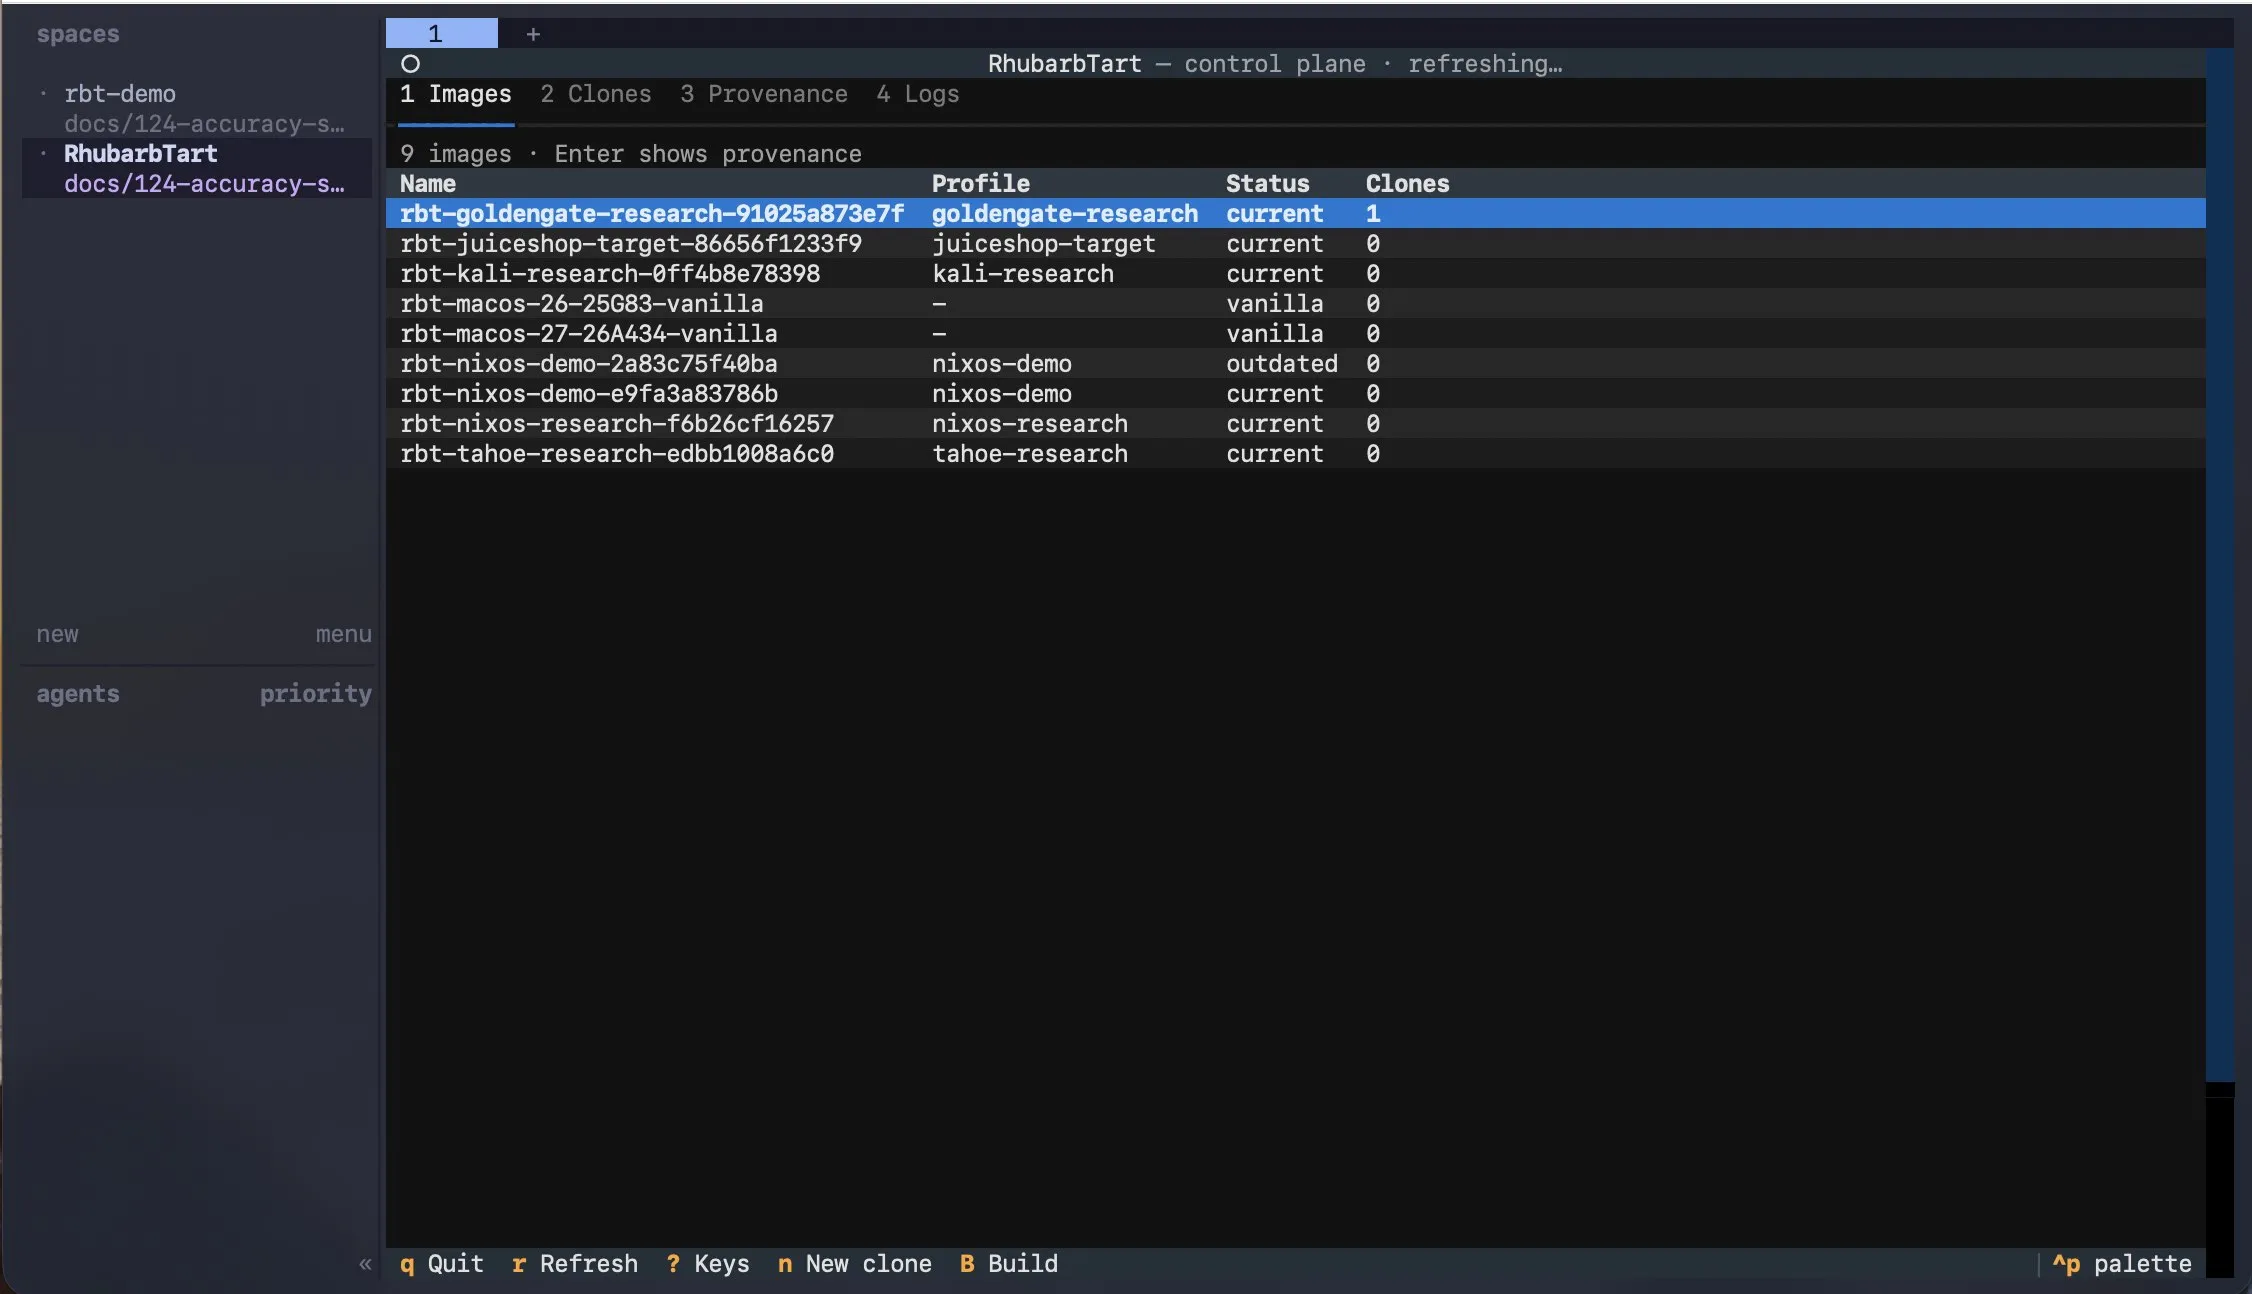
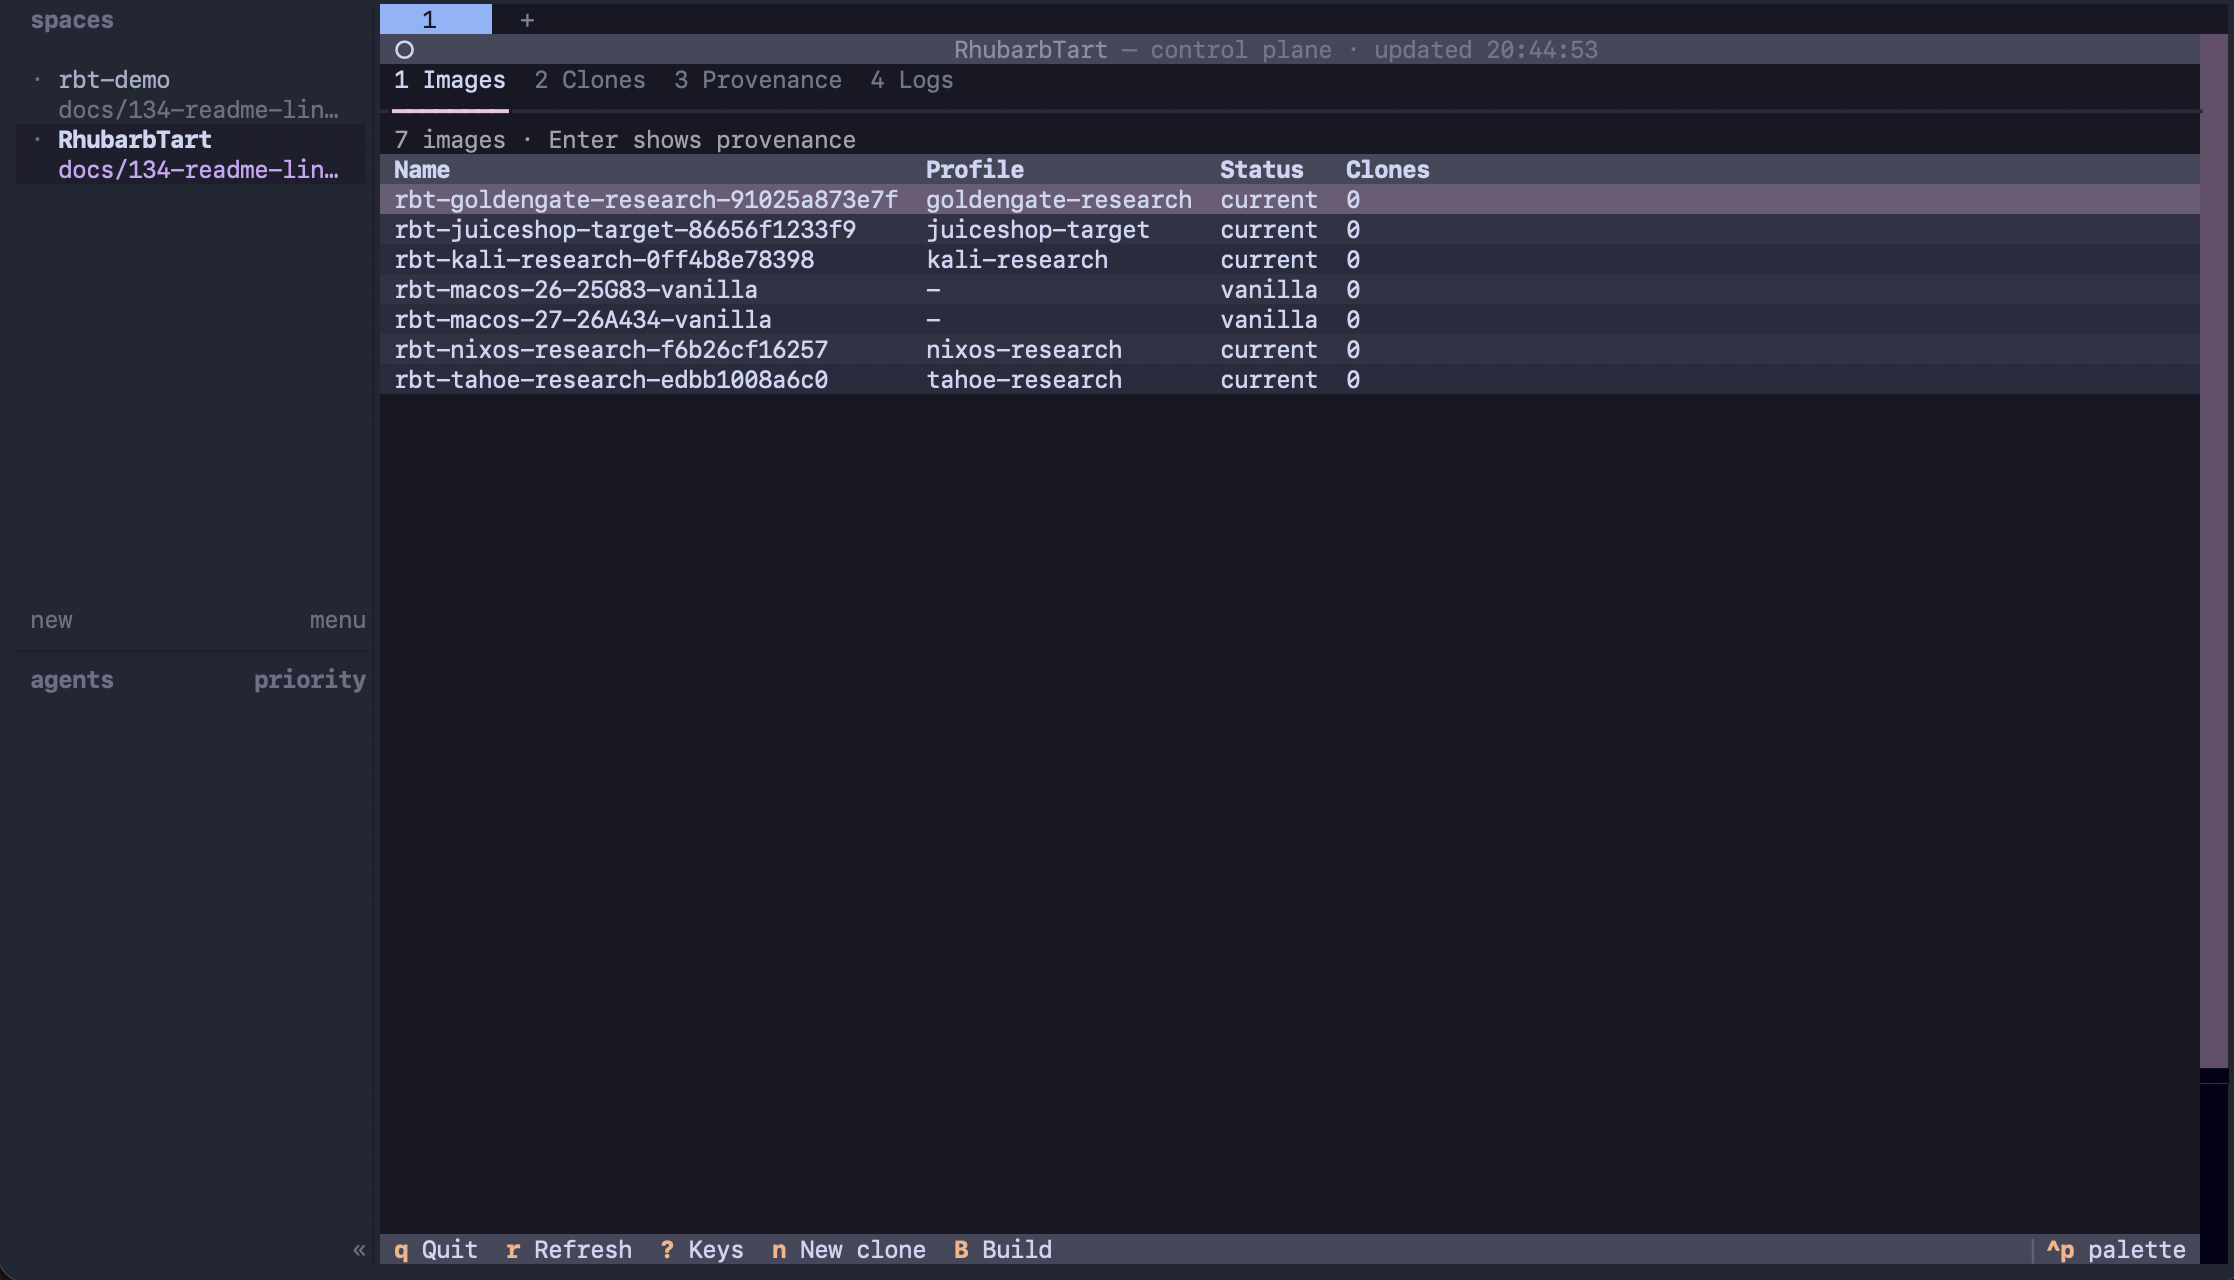
docs(readme): new screenshot under the badges; link to the docs index and issue tracker (#134) (#135)
* docs(readme): link to the docs index and the issue tracker instead of repeating them (#134)

The Documentation table repeated docs/README.md, and the Open issues table
repeated GitHub's list and had already gone stale (it still showed #98, which
closed in #133). Both are now short links; the README points newcomers at Key
concepts and Using your VMs.

* docs(readme): new dashboard screenshot, shown under the badges (#134)

Replaces the screenshot with a current one: the TUI in herdr's catppuccin
theme (#131), listing only committed profiles. Converted losslessly to WebP
(pixel-identical, 698 KB PNG -> 232 KB). It now sits under the badges in the
header with a one-line caption, instead of after Quick start.

---------

diff --git a/README.md b/README.md
@@ -22,6 +22,9 @@ CTFs, with each command they run recorded as evidence on the host (early stage).
 ![Toolchain](https://img.shields.io/badge/toolchain-no%20Homebrew-2b2d42)
 ![Provenance](https://img.shields.io/badge/inputs-pinned%20%2B%20verified-2b2d42)
 
+![The rhubarb-tui dashboard listing built images with their profile, status and clone count](docs/images/tui-images.webp)
+<br/><sub>The <code>./rhubarb-tui</code> dashboard, here running inside herdr.</sub>
+
 </div>
 
 ---
@@ -167,9 +170,7 @@ RHUBARB_SSH_PUBKEYS=~/.ssh/id_ed25519.pub ./scripts/build.sh kali-research
 </details>
 
 The same actions are available in `./rhubarb-tui`, a keyboard-driven dashboard with tabs for
-images, clones, provenance and logs. Here it runs inside herdr:
-
-![The rhubarb-tui dashboard showing built images, their profiles, status and clone counts](docs/images/tui-images.webp)
+images, clones, provenance and logs.
 
 ## Choose a guest
 
@@ -215,38 +216,17 @@ flowchart TD
 
 ## Documentation
 
-| Page | Covers |
-|---|---|
-| **[Key concepts](docs/concepts.md)** | The terms used throughout: profile, input, lock, image, clone, seal, provenance, engagement, evidence, vault, stacked clone |
-| **[How it works](docs/how-it-works.md)** | The four build stages (Define, Resolve, Build, Prove) from start to finish |
-| **[Using your VMs](docs/using.md)** | Working with clones: the `rhubarb` CLI and dashboard, SSH, VPN sign-in, engagements, evidence and vaults, the control-plane service and herdr agents |
-| **[Define your own guest](docs/profiles.md)** | Writing a profile: the format, which tools each OS supports, validation rules |
-| **[Trust model and security posture](docs/trust-model.md)** | How each input is verified, and which security settings each OS applies and tests |
-| **[Publishing and stacked clones](docs/publishing.md)** | Signing and publishing images to a registry, and making stacked macOS clones from them |
-| **[macOS guests and containers](docs/macos-and-containers.md)** | Why macOS runs as a VM (not a container), what OCI packaging and clones give you, and running containers or devcontainers inside guests |
-| **[Testing macOS and iOS apps](docs/testing-apple-apps.md)** | The challenges of testing Apple software and how each part of the tool addresses them |
-| **[herdr charter](docs/HERDR-CHARTER.md)** | What the agent interface may and may not do, and where its trust boundary lies |
-| **[Reference](docs/reference.md)** | Updating inputs, configuration variables, host requirements and the toolchain |
-| **[Development](docs/development.md)** | Changing the code safely: `check.sh`, testing without a Mac, the Claude Code skills |
+The [documentation index](docs/README.md) lists every page: guides, reference pages and the
+design records. If you're new, start with [Key concepts](docs/concepts.md), then
+[Using your VMs](docs/using.md).
 
-Roadmap: [`docs/PLAN.md`](docs/PLAN.md). All pages, including the design records:
-[`docs/README.md`](docs/README.md). Contributing: [`CONTRIBUTING.md`](CONTRIBUTING.md).
-Reporting security issues: [`SECURITY.md`](SECURITY.md).
+Contributing: [`CONTRIBUTING.md`](CONTRIBUTING.md). Reporting security issues:
+[`SECURITY.md`](SECURITY.md).
 
 ## Open issues
 
-Open work is tracked in the [issue tracker](https://github.com/errantpacket/RhubarbTart/issues):
-
-| Type | Issue |
-|---|---|
-| Bug | [#63](https://github.com/errantpacket/RhubarbTart/issues/63) macOS 26 builds: the automated Setup Assistant step sometimes fails and the build times out; running it again usually works |
-| Bug | [#98](https://github.com/errantpacket/RhubarbTart/issues/98) Kali clones can boot with a read-only root file system |
-| Enhancement | [#74](https://github.com/errantpacket/RhubarbTart/issues/74) Publishing to remote registries that require a login |
-| Enhancement | [#100](https://github.com/errantpacket/RhubarbTart/issues/100) Encrypting sealed evidence vaults at rest |
-| Enhancement | [#94](https://github.com/errantpacket/RhubarbTart/issues/94) Moving lab targets onto Tart's native host-only network once it ships |
-| On hold | [#28](https://github.com/errantpacket/RhubarbTart/issues/28) A standard (non-admin) account for daily use; the design options are in the issue |
-| Roadmap | [#126](https://github.com/errantpacket/RhubarbTart/issues/126) herdr agent platform: budget enforcement, prompt capture and a per-engagement agent VM (the service and integration shipped in #104 and #108) |
-| Roadmap | [#37](https://github.com/errantpacket/RhubarbTart/issues/37) A published documentation site |
+Open bugs, enhancements and the roadmap are in the
+[issue tracker](https://github.com/errantpacket/RhubarbTart/issues).
 
 ## License
 
